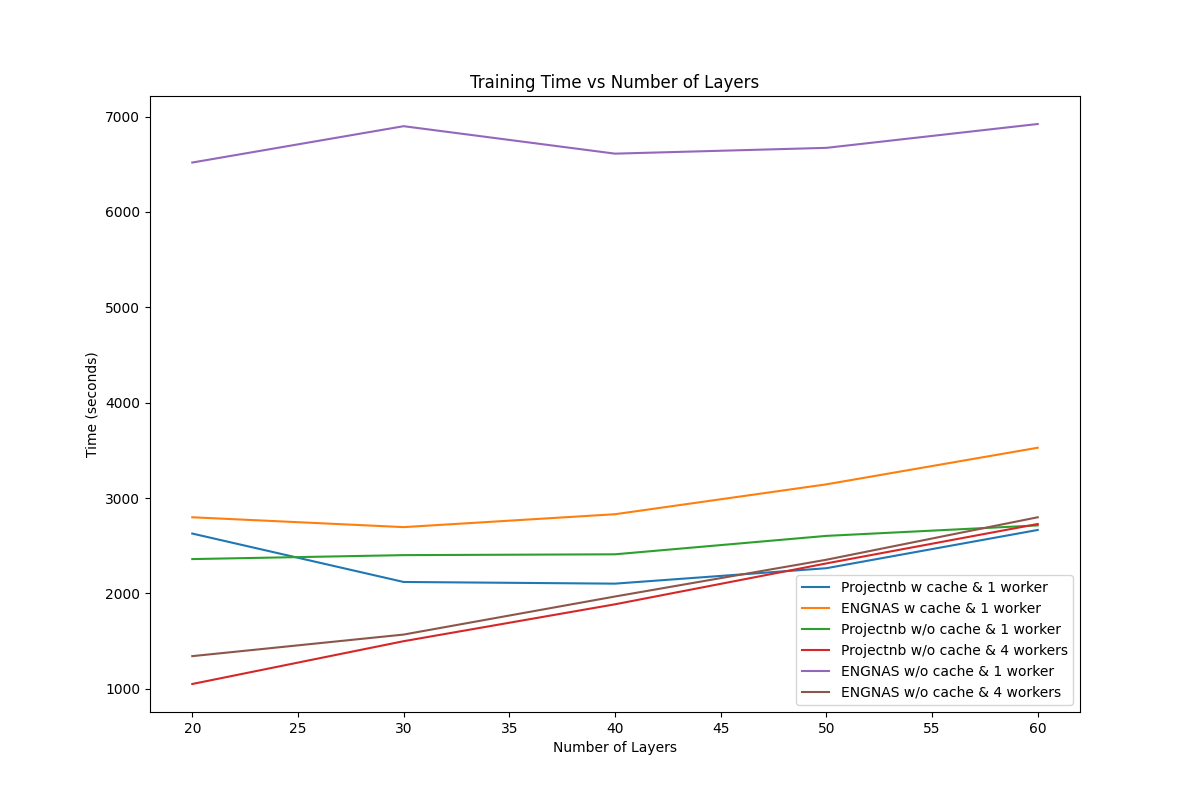
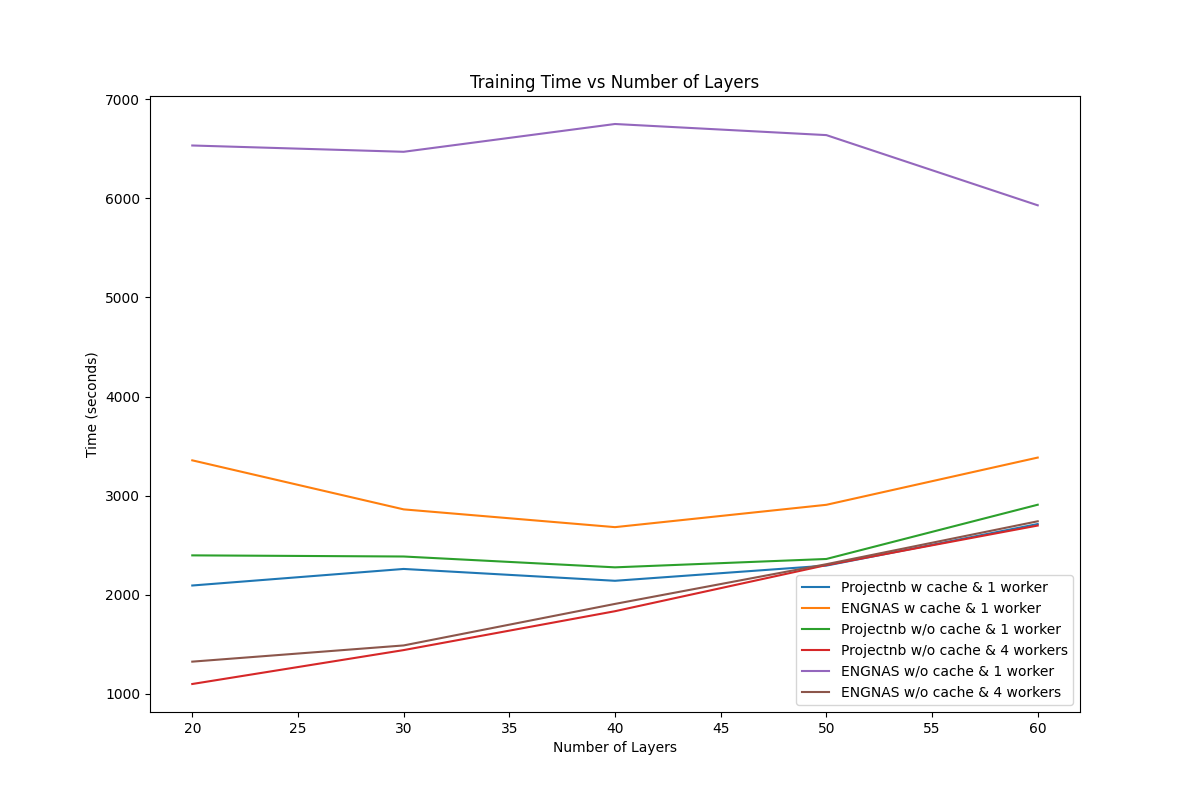
More tests

diff --git a/cache.py b/cache.py
@@ -109,13 +109,14 @@ def clear_cache(cache_path):
 
 # Function to train the model and measure time elapsed
 def train_model(num_layers, input_channels, data_path, cache_path, use_cache, num_workers, ground_truth_path=None):
+    device = torch.device("cuda" if torch.cuda.is_available() else "cpu")
     transform = transforms.Compose([
         transforms.Resize((28, 28))
     ])
     dataset = CustomImageDataset(data_path=data_path, cache_path=cache_path, use_cache=use_cache, ground_truth=ground_truth_path, transform=transform)
     train_loader = DataLoader(dataset, batch_size=128, prefetch_factor=4, shuffle=True, num_workers=num_workers, persistent_workers=True)
     
-    model = SimpleCNN(num_conv_layers=num_layers, input_channels=input_channels)
+    model = SimpleCNN(num_conv_layers=num_layers, input_channels=input_channels).to(device)
     criterion = nn.CrossEntropyLoss()
     optimizer = optim.Adam(model.parameters(), lr=0.001)
     
@@ -126,9 +127,10 @@ def train_model(num_layers, input_channels, data_path, cache_path, use_cache, nu
         model.train()
         running_loss = 0.0
         for images in train_loader:
+            images = images.to(device)
             optimizer.zero_grad()
             outputs = model(images) 
-            labels = torch.randint(0, 10, (images.size(0),))     # Fake Labels
+            labels = torch.randint(0, 10, (images.size(0),)).to(device)     # Fake Labels
             loss = criterion(outputs, labels)
             loss.backward()
             optimizer.step()
@@ -137,10 +139,10 @@ def train_model(num_layers, input_channels, data_path, cache_path, use_cache, nu
     return end - start
 
 # Relevant paths/variables
-res_name = "new_ground_truth_500_images"
+res_name = "5000_images"
 
-dataset = '500,33x224x224'
-ground_truth = '500,24x224x224'
+dataset = '5000,33x224x224'
+ground_truth = '5000,24x224x224'
 projectnb = '/projectnb/tianlabdl/rsyed/cache_dataloading/data/'  
 engnas = '/ad/eng/research/eng_research_cisl/rsyed' 
 scratch = f'/scratch/rsyed/data/{res_name}'
